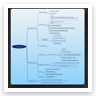
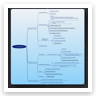
August including Lucretius

diff --git a/index.html b/index.html
@@ -123,9 +123,9 @@ var slideHierarchy = [
 			title: "Top level outline v3",
 			uuid: "7BE8CBAB-E5A1-4707-AC16-BCA4A332616D",
 			tags: [],
-			image: "Contents/Top%20level%20outline%20v3-7be8cbab-e5a1-4707-ac16-bca4a332616d.png?nocache=681857811",
+			image: "Contents/Top%20level%20outline%20v3-7be8cbab-e5a1-4707-ac16-bca4a332616d.png?nocache=681858150",
 			imageSize: { width: 1430.000000, height: 705.000000 },
-			thumbnail: "Contents/Top%20level%20outline%20v3-7be8cbab-e5a1-4707-ac16-bca4a332616d-Thumb.png?nocache=681857811",
+			thumbnail: "Contents/Top%20level%20outline%20v3-7be8cbab-e5a1-4707-ac16-bca4a332616d-Thumb.png?nocache=681858150",
 			imagemap: [
 				{
 					href: "evernote:///view/8220413/s75/d9f2fda2-52cd-dad5-c7ac-ee468825dd35/d9f2fda2-52cd-dad5-c7ac-ee468825dd35/",
@@ -463,15 +463,15 @@ var slideHierarchy = [
 			title: "1. The Objective",
 			uuid: "D5C9E65F-2F3C-4E84-8030-708C5EEF9BA8",
 			tags: [],
-			thumbnail: "Contents/Folderd5-Thumb.png?nocache=681857811",
+			thumbnail: "Contents/Folderd5-Thumb.png?nocache=681858150",
 			childHierarchy: [
 				{
 					title: "1. The Objective outline",
 					uuid: "EC283BFA-DDF3-463C-8809-BAD7A94A5D45",
 					tags: [],
-					image: "Contents/1.%20The%20Objective%20out-ec283bfa-ddf3-463c-8809-bad7a94a5d45.png?nocache=681857811",
+					image: "Contents/1.%20The%20Objective%20out-ec283bfa-ddf3-463c-8809-bad7a94a5d45.png?nocache=681858150",
 					imageSize: { width: 1194.000000, height: 1134.000000 },
-					thumbnail: "Contents/1.%20The%20Objective%20out-ec283bfa-ddf3-463c-8809-bad7a94a5d45-Thumb.png?nocache=681857811",
+					thumbnail: "Contents/1.%20The%20Objective%20out-ec283bfa-ddf3-463c-8809-bad7a94a5d45-Thumb.png?nocache=681858150",
 					imagemap: [
 						{
 							href: "evernote:///view/8220413/s75/5e17e226-f551-48f8-9ae2-2b9f0649fef2/5e17e226-f551-48f8-9ae2-2b9f0649fef2/",
@@ -538,6 +538,12 @@ var slideHierarchy = [
 							tags: [],
 							shape: "polygon",
 							coords: "450,534 589,534 589,561 450,561",
+						},
+						{
+							href: "javascript:goToSlideWithUUID('32CC6256-6900-4468-9780-C2A0FE822555')",
+							tags: [],
+							shape: "polygon",
+							coords: "616,184 954,184 954,227 616,227",
 						}
 					]
 				},
@@ -545,49 +551,57 @@ var slideHierarchy = [
 					title: "1.1 Seeking to know",
 					uuid: "A101BFF1-4949-4D6B-AA3C-7432D0E452AF",
 					tags: [],
-					image: "Contents/1.1%20Seeking%20to%20know-a101bff1-4949-4d6b-aa3c-7432d0e452af.png?nocache=681857811",
+					image: "Contents/1.1%20Seeking%20to%20know-a101bff1-4949-4d6b-aa3c-7432d0e452af.png?nocache=681858150",
 					imageSize: { width: 0.000000, height: 0.000000 },
-					thumbnail: "Contents/1.1%20Seeking%20to%20know-a101bff1-4949-4d6b-aa3c-7432d0e452af-Thumb.png?nocache=681857811"
+					thumbnail: "Contents/1.1%20Seeking%20to%20know-a101bff1-4949-4d6b-aa3c-7432d0e452af-Thumb.png?nocache=681858150"
 				},
 				{
-					title: "Lucretius",
+					title: "Lucretius: outline",
 					uuid: "D70F3099-1165-465E-ABE7-85C0FB891990",
 					tags: [],
-					image: "Contents/Lucretius-d70f3099-1165-465e-abe7-85c0fb891990.png?nocache=681857811",
+					image: "Contents/Lucretius%20outline-d70f3099-1165-465e-abe7-85c0fb891990.png?nocache=681858150",
 					imageSize: { width: 1235.000000, height: 1090.000000 },
-					thumbnail: "Contents/Lucretius-d70f3099-1165-465e-abe7-85c0fb891990-Thumb.png?nocache=681857811"
+					thumbnail: "Contents/Lucretius%20outline-d70f3099-1165-465e-abe7-85c0fb891990-Thumb.png?nocache=681858150"
+				},
+				{
+					title: "Lucretius: Themes",
+					uuid: "32CC6256-6900-4468-9780-C2A0FE822555",
+					tags: [],
+					image: "Contents/Lucretius%20Themes-32cc6256-6900-4468-9780-c2a0fe822555.png?nocache=681858150",
+					imageSize: { width: 1246.000000, height: 7041.000000 },
+					thumbnail: "Contents/Lucretius%20Themes-32cc6256-6900-4468-9780-c2a0fe822555-Thumb.png?nocache=681858150"
 				},
 				{
 					title: "1.1 Seeking to know",
 					uuid: "F96F49BE-ABF7-41F5-8E90-E4CEE9B6F5FE",
 					tags: [],
-					image: "Contents/1.1%20Seeking%20to%20know-f96f49be-abf7-41f5-8e90-e4cee9b6f5fe.png?nocache=681857811",
+					image: "Contents/1.1%20Seeking%20to%20know-f96f49be-abf7-41f5-8e90-e4cee9b6f5fe.png?nocache=681858150",
 					imageSize: { width: 0.000000, height: 0.000000 },
-					thumbnail: "Contents/1.1%20Seeking%20to%20know-f96f49be-abf7-41f5-8e90-e4cee9b6f5fe-Thumb.png?nocache=681857811"
+					thumbnail: "Contents/1.1%20Seeking%20to%20know-f96f49be-abf7-41f5-8e90-e4cee9b6f5fe-Thumb.png?nocache=681858150"
 				},
 				{
 					title: "1.1 Seeking to know",
 					uuid: "66DAC931-7071-44A9-9951-8DB1C88D414E",
 					tags: [],
-					image: "Contents/1.1%20Seeking%20to%20know-66dac931-7071-44a9-9951-8db1c88d414e.png?nocache=681857811",
+					image: "Contents/1.1%20Seeking%20to%20know-66dac931-7071-44a9-9951-8db1c88d414e.png?nocache=681858150",
 					imageSize: { width: 0.000000, height: 0.000000 },
-					thumbnail: "Contents/1.1%20Seeking%20to%20know-66dac931-7071-44a9-9951-8db1c88d414e-Thumb.png?nocache=681857811"
+					thumbnail: "Contents/1.1%20Seeking%20to%20know-66dac931-7071-44a9-9951-8db1c88d414e-Thumb.png?nocache=681858150"
 				},
 				{
 					title: "1.2Methods to know",
 					uuid: "DD6A3952-373B-4FE6-8EA4-C53B6DE7248F",
 					tags: [],
-					image: "Contents/1.2Methods%20to%20know-dd6a3952-373b-4fe6-8ea4-c53b6de7248f.png?nocache=681857811",
+					image: "Contents/1.2Methods%20to%20know-dd6a3952-373b-4fe6-8ea4-c53b6de7248f.png?nocache=681858150",
 					imageSize: { width: 0.000000, height: 0.000000 },
-					thumbnail: "Contents/1.2Methods%20to%20know-dd6a3952-373b-4fe6-8ea4-c53b6de7248f-Thumb.png?nocache=681857811"
+					thumbnail: "Contents/1.2Methods%20to%20know-dd6a3952-373b-4fe6-8ea4-c53b6de7248f-Thumb.png?nocache=681858150"
 				},
 				{
 					title: "1.3 What I want to know in this investigation",
 					uuid: "E60C88F4-EFD5-477A-93ED-C97057EC1264",
 					tags: [],
-					image: "Contents/1.3%20What%20I%20want%20to%20k-e60c88f4-efd5-477a-93ed-c97057ec1264.png?nocache=681857811",
+					image: "Contents/1.3%20What%20I%20want%20to%20k-e60c88f4-efd5-477a-93ed-c97057ec1264.png?nocache=681858150",
 					imageSize: { width: 0.000000, height: 0.000000 },
-					thumbnail: "Contents/1.3%20What%20I%20want%20to%20k-e60c88f4-efd5-477a-93ed-c97057ec1264-Thumb.png?nocache=681857811"
+					thumbnail: "Contents/1.3%20What%20I%20want%20to%20k-e60c88f4-efd5-477a-93ed-c97057ec1264-Thumb.png?nocache=681858150"
 				}
 			]
 		},
@@ -595,15 +609,15 @@ var slideHierarchy = [
 			title: "2. Understanding the world as physics",
 			uuid: "66931BD6-C5AB-47C3-9A9F-9D35ED26B3B2",
 			tags: [],
-			thumbnail: "Contents/Folder66-Thumb.png?nocache=681857811",
+			thumbnail: "Contents/Folder66-Thumb.png?nocache=681858150",
 			childHierarchy: [
 				{
 					title: "2. Understanding the world as physics",
 					uuid: "564D5FC4-0DB1-4693-8560-33E753527CAD",
 					tags: [],
-					image: "Contents/2.%20Understanding%20the-564d5fc4-0db1-4693-8560-33e753527cad.png?nocache=681857811",
+					image: "Contents/2.%20Understanding%20the-564d5fc4-0db1-4693-8560-33e753527cad.png?nocache=681858150",
 					imageSize: { width: 1473.000000, height: 1025.000000 },
-					thumbnail: "Contents/2.%20Understanding%20the-564d5fc4-0db1-4693-8560-33e753527cad-Thumb.png?nocache=681857811",
+					thumbnail: "Contents/2.%20Understanding%20the-564d5fc4-0db1-4693-8560-33e753527cad-Thumb.png?nocache=681858150",
 					imagemap: [
 						{
 							href: "evernote:///view/8220413/s75/202801ef-20e0-4aa6-831b-df6025134068/202801ef-20e0-4aa6-831b-df6025134068/",
@@ -845,9 +859,9 @@ var slideHierarchy = [
 					title: "Math and Science in the age of Reason",
 					uuid: "8C9C1CD4-102A-4896-BC4A-82248CF8ACB8",
 					tags: [],
-					image: "Contents/Math%20and%20Science%20in%20-8c9c1cd4-102a-4896-bc4a-82248cf8acb8.png?nocache=681857811",
+					image: "Contents/Math%20and%20Science%20in%20-8c9c1cd4-102a-4896-bc4a-82248cf8acb8.png?nocache=681858150",
 					imageSize: { width: 1620.000000, height: 1421.000000 },
-					thumbnail: "Contents/Math%20and%20Science%20in%20-8c9c1cd4-102a-4896-bc4a-82248cf8acb8-Thumb.png?nocache=681857811",
+					thumbnail: "Contents/Math%20and%20Science%20in%20-8c9c1cd4-102a-4896-bc4a-82248cf8acb8-Thumb.png?nocache=681858150",
 					imagemap: [
 						{
 							href: "evernote:///view/8220413/s75/202801ef-20e0-4aa6-831b-df6025134068/202801ef-20e0-4aa6-831b-df6025134068/",
@@ -1035,17 +1049,17 @@ var slideHierarchy = [
 					title: "2.1 Reality as Physics",
 					uuid: "80AFBAFF-4594-40FA-BD65-17D77FE9466A",
 					tags: [],
-					image: "Contents/2.1%20Reality%20as%20Physi-80afbaff-4594-40fa-bd65-17d77fe9466a.png?nocache=681857811",
+					image: "Contents/2.1%20Reality%20as%20Physi-80afbaff-4594-40fa-bd65-17d77fe9466a.png?nocache=681858150",
 					imageSize: { width: 0.000000, height: 0.000000 },
-					thumbnail: "Contents/2.1%20Reality%20as%20Physi-80afbaff-4594-40fa-bd65-17d77fe9466a-Thumb.png?nocache=681857811"
+					thumbnail: "Contents/2.1%20Reality%20as%20Physi-80afbaff-4594-40fa-bd65-17d77fe9466a-Thumb.png?nocache=681858150"
 				},
 				{
 					title: "History of Classical Geometry and Physics",
 					uuid: "58DBD740-DACC-43D5-9342-3E42592AA997",
 					tags: [],
-					image: "Contents/History%20of%20Classical-58dbd740-dacc-43d5-9342-3e42592aa997.png?nocache=681857811",
+					image: "Contents/History%20of%20Classical-58dbd740-dacc-43d5-9342-3e42592aa997.png?nocache=681858150",
 					imageSize: { width: 1542.000000, height: 632.000000 },
-					thumbnail: "Contents/History%20of%20Classical-58dbd740-dacc-43d5-9342-3e42592aa997-Thumb.png?nocache=681857811",
+					thumbnail: "Contents/History%20of%20Classical-58dbd740-dacc-43d5-9342-3e42592aa997-Thumb.png?nocache=681858150",
 					imagemap: [
 						{
 							href: "javascript:goToSlideWithUUID('A349A51F-1E91-4D28-9124-D669613C42BA')",
@@ -1059,41 +1073,41 @@ var slideHierarchy = [
 					title: "2.2 Classic Physics and Math",
 					uuid: "7C530425-7E66-4BF3-9895-871648980250",
 					tags: [],
-					image: "Contents/2.2%20Classic%20Physics%20-7c530425-7e66-4bf3-9895-871648980250.png?nocache=681857811",
+					image: "Contents/2.2%20Classic%20Physics%20-7c530425-7e66-4bf3-9895-871648980250.png?nocache=681858150",
 					imageSize: { width: 0.000000, height: 0.000000 },
-					thumbnail: "Contents/2.2%20Classic%20Physics%20-7c530425-7e66-4bf3-9895-871648980250-Thumb.png?nocache=681857811"
+					thumbnail: "Contents/2.2%20Classic%20Physics%20-7c530425-7e66-4bf3-9895-871648980250-Thumb.png?nocache=681858150"
 				},
 				{
 					title: "2.3 Math and Science in the age of Reason",
 					uuid: "4C5FA75B-710E-4BCC-8DF3-C989A7DC6B03",
 					tags: [],
-					image: "Contents/2.3%20Math%20and%20Science-4c5fa75b-710e-4bcc-8df3-c989a7dc6b03.png?nocache=681857811",
+					image: "Contents/2.3%20Math%20and%20Science-4c5fa75b-710e-4bcc-8df3-c989a7dc6b03.png?nocache=681858150",
 					imageSize: { width: 0.000000, height: 0.000000 },
-					thumbnail: "Contents/2.3%20Math%20and%20Science-4c5fa75b-710e-4bcc-8df3-c989a7dc6b03-Thumb.png?nocache=681857811"
+					thumbnail: "Contents/2.3%20Math%20and%20Science-4c5fa75b-710e-4bcc-8df3-c989a7dc6b03-Thumb.png?nocache=681858150"
 				},
 				{
 					title: "2.4 Modern  Mathematical Physics",
 					uuid: "A0B1E4BC-8208-4FB5-9E1B-3EDB9E864073",
 					tags: [],
-					image: "Contents/2.4%20Modern%20%20Mathemat-a0b1e4bc-8208-4fb5-9e1b-3edb9e864073.png?nocache=681857811",
+					image: "Contents/2.4%20Modern%20%20Mathemat-a0b1e4bc-8208-4fb5-9e1b-3edb9e864073.png?nocache=681858150",
 					imageSize: { width: 0.000000, height: 0.000000 },
-					thumbnail: "Contents/2.4%20Modern%20%20Mathemat-a0b1e4bc-8208-4fb5-9e1b-3edb9e864073-Thumb.png?nocache=681857811"
+					thumbnail: "Contents/2.4%20Modern%20%20Mathemat-a0b1e4bc-8208-4fb5-9e1b-3edb9e864073-Thumb.png?nocache=681858150"
 				},
 				{
 					title: "2.5 Conclusions",
 					uuid: "B65B06AD-EBD1-4859-93B2-274B6FC9213D",
 					tags: [],
-					image: "Contents/2.5%20Conclusions-b65b06ad-ebd1-4859-93b2-274b6fc9213d.png?nocache=681857811",
+					image: "Contents/2.5%20Conclusions-b65b06ad-ebd1-4859-93b2-274b6fc9213d.png?nocache=681858150",
 					imageSize: { width: 0.000000, height: 0.000000 },
-					thumbnail: "Contents/2.5%20Conclusions-b65b06ad-ebd1-4859-93b2-274b6fc9213d-Thumb.png?nocache=681857811"
+					thumbnail: "Contents/2.5%20Conclusions-b65b06ad-ebd1-4859-93b2-274b6fc9213d-Thumb.png?nocache=681858150"
 				},
 				{
 					title: "Thermodynamics and ML",
 					uuid: "7216E17B-90E2-4938-B44D-A7A1AA496A19",
 					tags: [],
-					image: "Contents/Thermodynamics%20and%20M-7216e17b-90e2-4938-b44d-a7a1aa496a19.png?nocache=681857811",
+					image: "Contents/Thermodynamics%20and%20M-7216e17b-90e2-4938-b44d-a7a1aa496a19.png?nocache=681858150",
 					imageSize: { width: 0.000000, height: 0.000000 },
-					thumbnail: "Contents/Thermodynamics%20and%20M-7216e17b-90e2-4938-b44d-a7a1aa496a19-Thumb.png?nocache=681857811"
+					thumbnail: "Contents/Thermodynamics%20and%20M-7216e17b-90e2-4938-b44d-a7a1aa496a19-Thumb.png?nocache=681858150"
 				}
 			]
 		},
@@ -1101,15 +1115,15 @@ var slideHierarchy = [
 			title: "3. Understanding the world as concepts",
 			uuid: "5EFDEE10-E4A3-46A6-9325-DB060DD06CA5",
 			tags: [],
-			thumbnail: "Contents/Folder5e-Thumb.png?nocache=681857811",
+			thumbnail: "Contents/Folder5e-Thumb.png?nocache=681858150",
 			childHierarchy: [
 				{
 					title: "3 Understanding the world as concepts",
 					uuid: "4B7FE594-D934-45C6-9DB6-741BD8AF9E50",
 					tags: [],
-					image: "Contents/3%20Understanding%20the%20-4b7fe594-d934-45c6-9db6-741bd8af9e50.png?nocache=681857811",
+					image: "Contents/3%20Understanding%20the%20-4b7fe594-d934-45c6-9db6-741bd8af9e50.png?nocache=681858150",
 					imageSize: { width: 1239.000000, height: 1157.000000 },
-					thumbnail: "Contents/3%20Understanding%20the%20-4b7fe594-d934-45c6-9db6-741bd8af9e50-Thumb.png?nocache=681857811",
+					thumbnail: "Contents/3%20Understanding%20the%20-4b7fe594-d934-45c6-9db6-741bd8af9e50-Thumb.png?nocache=681858150",
 					imagemap: [
 						{
 							href: "https://en.wikipedia.org/wiki/Semantic_Web",
@@ -1153,9 +1167,9 @@ var slideHierarchy = [
 					title: "3.1 Reality as concepts",
 					uuid: "3F97CA03-1858-442B-A87B-15B7ABB4AA6F",
 					tags: [],
-					image: "Contents/3.1%20Reality%20as%20conce-3f97ca03-1858-442b-a87b-15b7abb4aa6f.png?nocache=681857811",
+					image: "Contents/3.1%20Reality%20as%20conce-3f97ca03-1858-442b-a87b-15b7abb4aa6f.png?nocache=681858150",
 					imageSize: { width: 0.000000, height: 0.000000 },
-					thumbnail: "Contents/3.1%20Reality%20as%20conce-3f97ca03-1858-442b-a87b-15b7abb4aa6f-Thumb.png?nocache=681857811"
+					thumbnail: "Contents/3.1%20Reality%20as%20conce-3f97ca03-1858-442b-a87b-15b7abb4aa6f-Thumb.png?nocache=681858150"
 				}
 			]
 		},
@@ -1163,23 +1177,23 @@ var slideHierarchy = [
 			title: "4. Application to meet the objective",
 			uuid: "A8CF5D32-EC1A-4EFD-9E52-CC918927564E",
 			tags: [],
-			thumbnail: "Contents/Foldera8-Thumb.png?nocache=681857811",
+			thumbnail: "Contents/Foldera8-Thumb.png?nocache=681858150",
 			childHierarchy: [
 				{
 					title: "4 Meeting the objective?",
 					uuid: "CEE75394-79AB-42D9-9AE0-77314FC5BA75",
 					tags: [],
-					image: "Contents/4%20Meeting%20the%20object-cee75394-79ab-42d9-9ae0-77314fc5ba75.png?nocache=681857811",
+					image: "Contents/4%20Meeting%20the%20object-cee75394-79ab-42d9-9ae0-77314fc5ba75.png?nocache=681858150",
 					imageSize: { width: 1090.000000, height: 261.000000 },
-					thumbnail: "Contents/4%20Meeting%20the%20object-cee75394-79ab-42d9-9ae0-77314fc5ba75-Thumb.png?nocache=681857811"
+					thumbnail: "Contents/4%20Meeting%20the%20object-cee75394-79ab-42d9-9ae0-77314fc5ba75-Thumb.png?nocache=681858150"
 				},
 				{
 					title: "4. what did we learn",
 					uuid: "36BB6EE1-30E9-4A7A-8A90-73F5C9B8BFAD",
 					tags: [],
-					image: "Contents/4.%20what%20did%20we%20learn-36bb6ee1-30e9-4a7a-8a90-73f5c9b8bfad.png?nocache=681857811",
+					image: "Contents/4.%20what%20did%20we%20learn-36bb6ee1-30e9-4a7a-8a90-73f5c9b8bfad.png?nocache=681858150",
 					imageSize: { width: 0.000000, height: 0.000000 },
-					thumbnail: "Contents/4.%20what%20did%20we%20learn-36bb6ee1-30e9-4a7a-8a90-73f5c9b8bfad-Thumb.png?nocache=681857811"
+					thumbnail: "Contents/4.%20what%20did%20we%20learn-36bb6ee1-30e9-4a7a-8a90-73f5c9b8bfad-Thumb.png?nocache=681858150"
 				}
 			]
 		}
